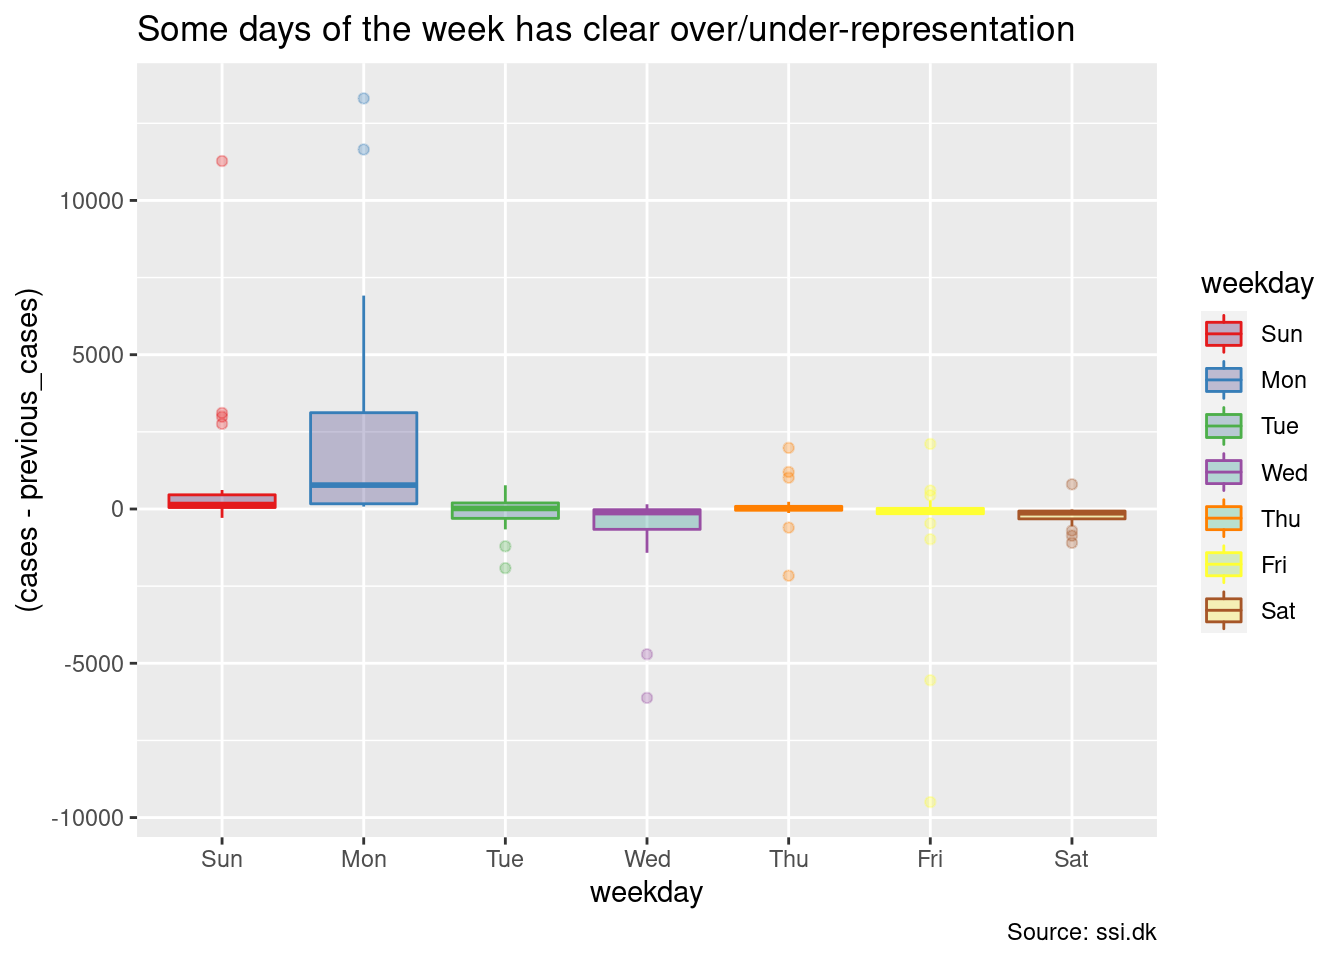
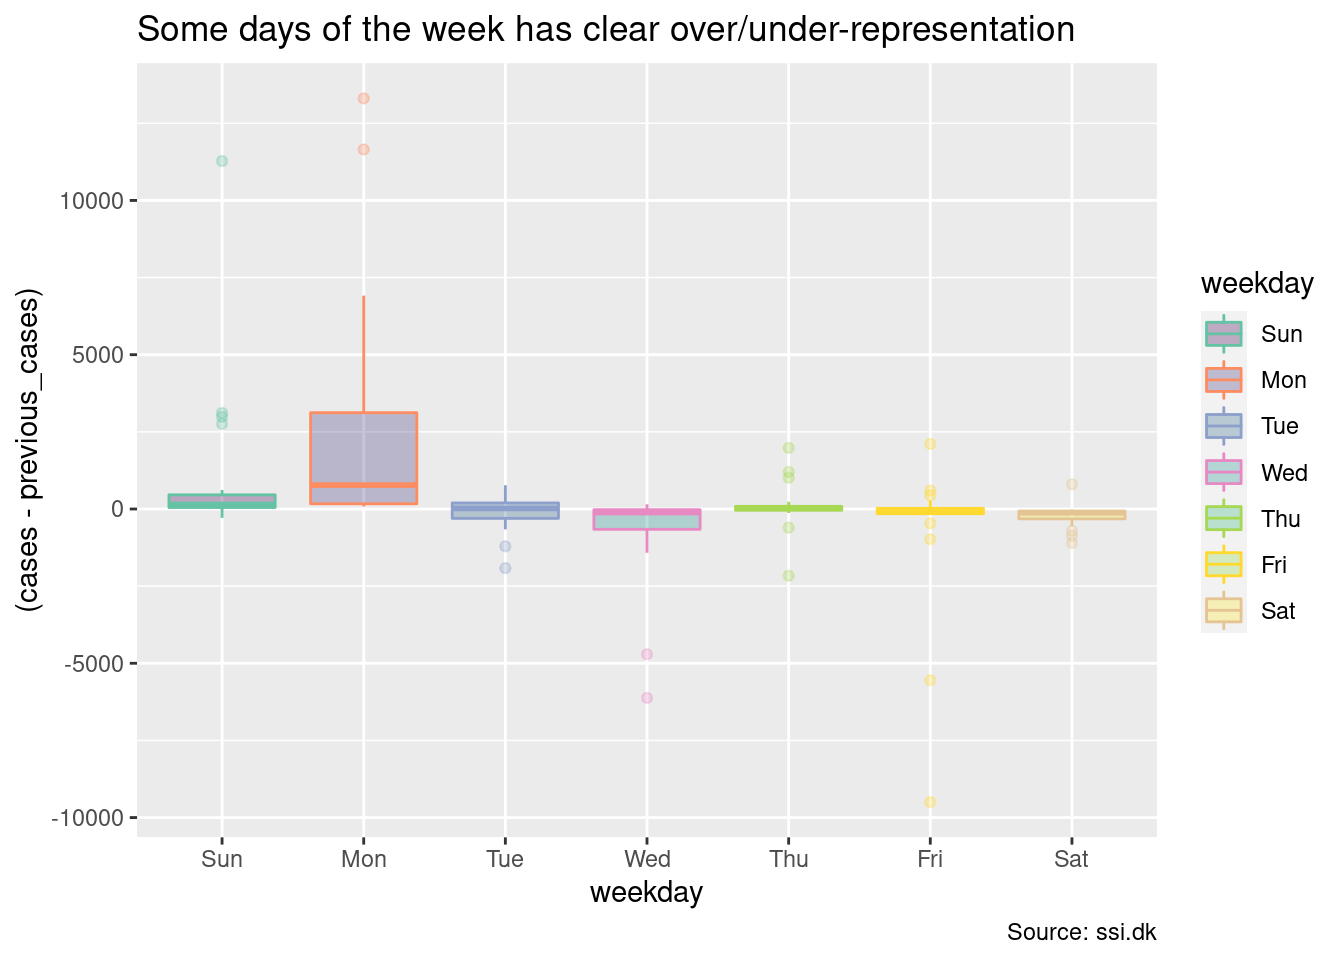
Analysis of correlation.

diff --git a/docs/index.html b/docs/index.html
@@ -586,7 +586,7 @@ plot_country_lag(p, &quot;Delta change on cases&quot;, &quot;Source: ssi.dk&quot
 <li><code>Wednesday</code> tend to have a smaller decrease.</li>
 </ul>
 <pre class="r"><code>plot_day_of_week &lt;- function(p, title, caption) {
-    p + scale_colour_brewer(palette=&quot;Set1&quot;) +
+    p + scale_colour_brewer(palette=&quot;Set2&quot;) +
         stat_boxplot(aes(fill=weekday, color=weekday), alpha=0.3) +
         labs(title = title, caption = caption)
 }
@@ -700,6 +700,92 @@ muncipalities$rate</code></pre>
        caption = &quot;Source: ssi.dk&quot;) +
   coord_flip()</code></pre>
 <p><img src="index_files/figure-html/muncipality-rate-overview-1.png" width="672" /></p>
+<p>Read in Popcount:</p>
+<pre class="r"><code>read_data_2 &lt;- function(f) {
+    raw &lt;- readBin(f, &quot;raw&quot;, n = file.size(f))
+    x_utf8 &lt;- iconv(list(raw), from = &quot;ISO-8859-1&quot;, to = &quot;UTF-8&quot;, toRaw = TRUE)[[1]]
+
+    # CSV variant 2 uses ; as the separator, among other adaptations
+    res &lt;- readr::read_csv2(x_utf8, col_names=FALSE)
+    return(res)
+}
+
+popcount &lt;- read_data_2(&quot;./data/DS/2022121185617360647690FOLK1AM68563293012.csv&quot;)</code></pre>
+<pre><code>## ℹ Using &quot;&#39;,&#39;&quot; as decimal and &quot;&#39;.&#39;&quot; as grouping mark. Use `read_delim()` for more control.</code></pre>
+<pre><code>## Rows: 103 Columns: 4</code></pre>
+<pre><code>## ── Column specification ─────────────────────────────────────────────────────────────────────────────────────────────────────────────────────────────────
+## Delimiter: &quot;;&quot;
+## chr (3): X1, X2, X3
+## dbl (1): X4</code></pre>
+<pre><code>## 
+## ℹ Use `spec()` to retrieve the full column specification for this data.
+## ℹ Specify the column types or set `show_col_types = FALSE` to quiet this message.</code></pre>
+<pre class="r"><code>popcount &lt;- popcount %&gt;% rename(name = 3, popcount = 4)
+popcount &lt;- popcount %&gt;% select(name, popcount)
+popcount</code></pre>
+<pre><code>## # A tibble: 103 × 2
+##    name          popcount
+##    &lt;chr&gt;            &lt;dbl&gt;
+##  1 København       644987
+##  2 Frederiksberg   103963
+##  3 Dragør           14602
+##  4 Tårnby           42728
+##  5 Albertslund      27575
+##  6 Ballerup         49228
+##  7 Brøndby          35535
+##  8 Gentofte         74154
+##  9 Gladsaxe         69321
+## 10 Glostrup         23519
+## # … with 93 more rows</code></pre>
+<p>Join the tables</p>
+<pre class="r"><code>muncipalities &lt;- muncipalities %&gt;% left_join(popcount)</code></pre>
+<pre><code>## Joining, by = &quot;name&quot;</code></pre>
+<pre class="r"><code>muncipalities %&gt;% select(name, incidence, popcount)</code></pre>
+<pre><code>## # A tibble: 99 × 3
+##    name            incidence popcount
+##    &lt;chr&gt;               &lt;dbl&gt;    &lt;dbl&gt;
+##  1 &quot;&quot;                      0       NA
+##  2 &quot;København&quot;          4264   644987
+##  3 &quot;Frederiksberg&quot;      4058   103963
+##  4 &quot;Ballerup&quot;           4748    49228
+##  5 &quot;Brøndby&quot;            5014    35535
+##  6 &quot;Dragør&quot;             4463    14602
+##  7 &quot;Gentofte&quot;           4295    74154
+##  8 &quot;Gladsaxe&quot;           4751    69321
+##  9 &quot;Glostrup&quot;           4906    23519
+## 10 &quot;Herlev&quot;             4802    28861
+## # … with 89 more rows</code></pre>
+<p>Now, test correlation:</p>
+<pre class="r"><code>plot(muncipalities$incidence, muncipalities$popcount)</code></pre>
+<p><img src="index_files/figure-html/correlation-popcount-incidence-1.png" width="672" /></p>
+<pre class="r"><code>cor.test(muncipalities$incidence, muncipalities$popcount)</code></pre>
+<pre><code>## 
+##  Pearson&#39;s product-moment correlation
+## 
+## data:  muncipalities$incidence and muncipalities$popcount
+## t = 1.6662, df = 92, p-value = 0.09908
+## alternative hypothesis: true correlation is not equal to 0
+## 95 percent confidence interval:
+##  -0.0326010  0.3612368
+## sample estimates:
+##       cor 
+## 0.1711465</code></pre>
+<p>Clearly, this argues there are no strong connection between population count, and the incidence in a given muncipality.</p>
+<p>Analyzing the rate shows there’s a connection between it and incidence, but this is more expected:</p>
+<pre class="r"><code>pairs(muncipalities %&gt;% select(incidence,popcount,rate))</code></pre>
+<p><img src="index_files/figure-html/correlation-incidence-rate-1.png" width="672" /></p>
+<pre class="r"><code>cor.test(muncipalities$incidence, muncipalities$rate)</code></pre>
+<pre><code>## 
+##  Pearson&#39;s product-moment correlation
+## 
+## data:  muncipalities$incidence and muncipalities$rate
+## t = 18.663, df = 97, p-value &lt; 2.2e-16
+## alternative hypothesis: true correlation is not equal to 0
+## 95 percent confidence interval:
+##  0.8323110 0.9210168
+## sample estimates:
+##       cor 
+## 0.8844076</code></pre>
 </div>
 
 
